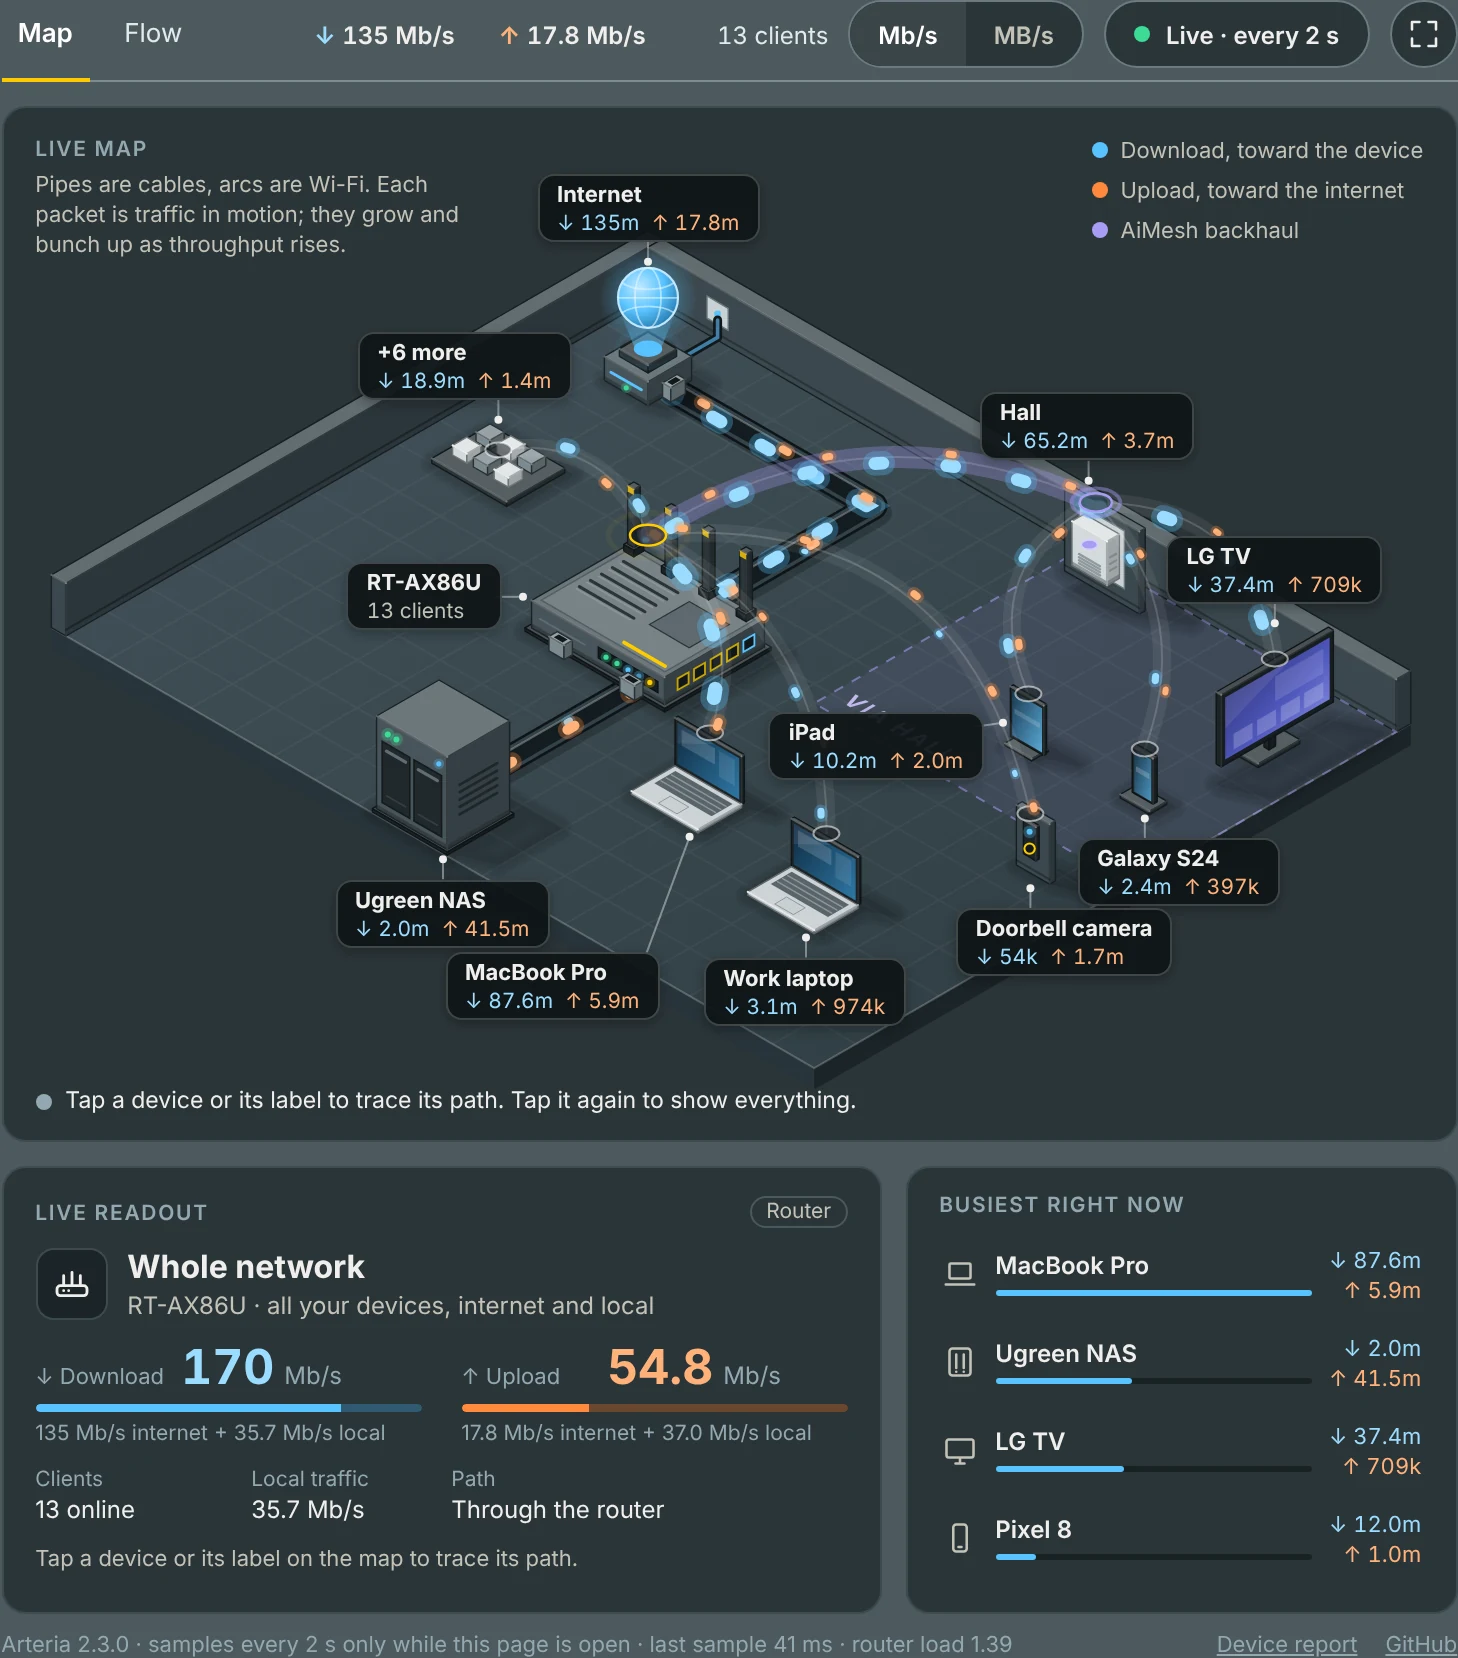
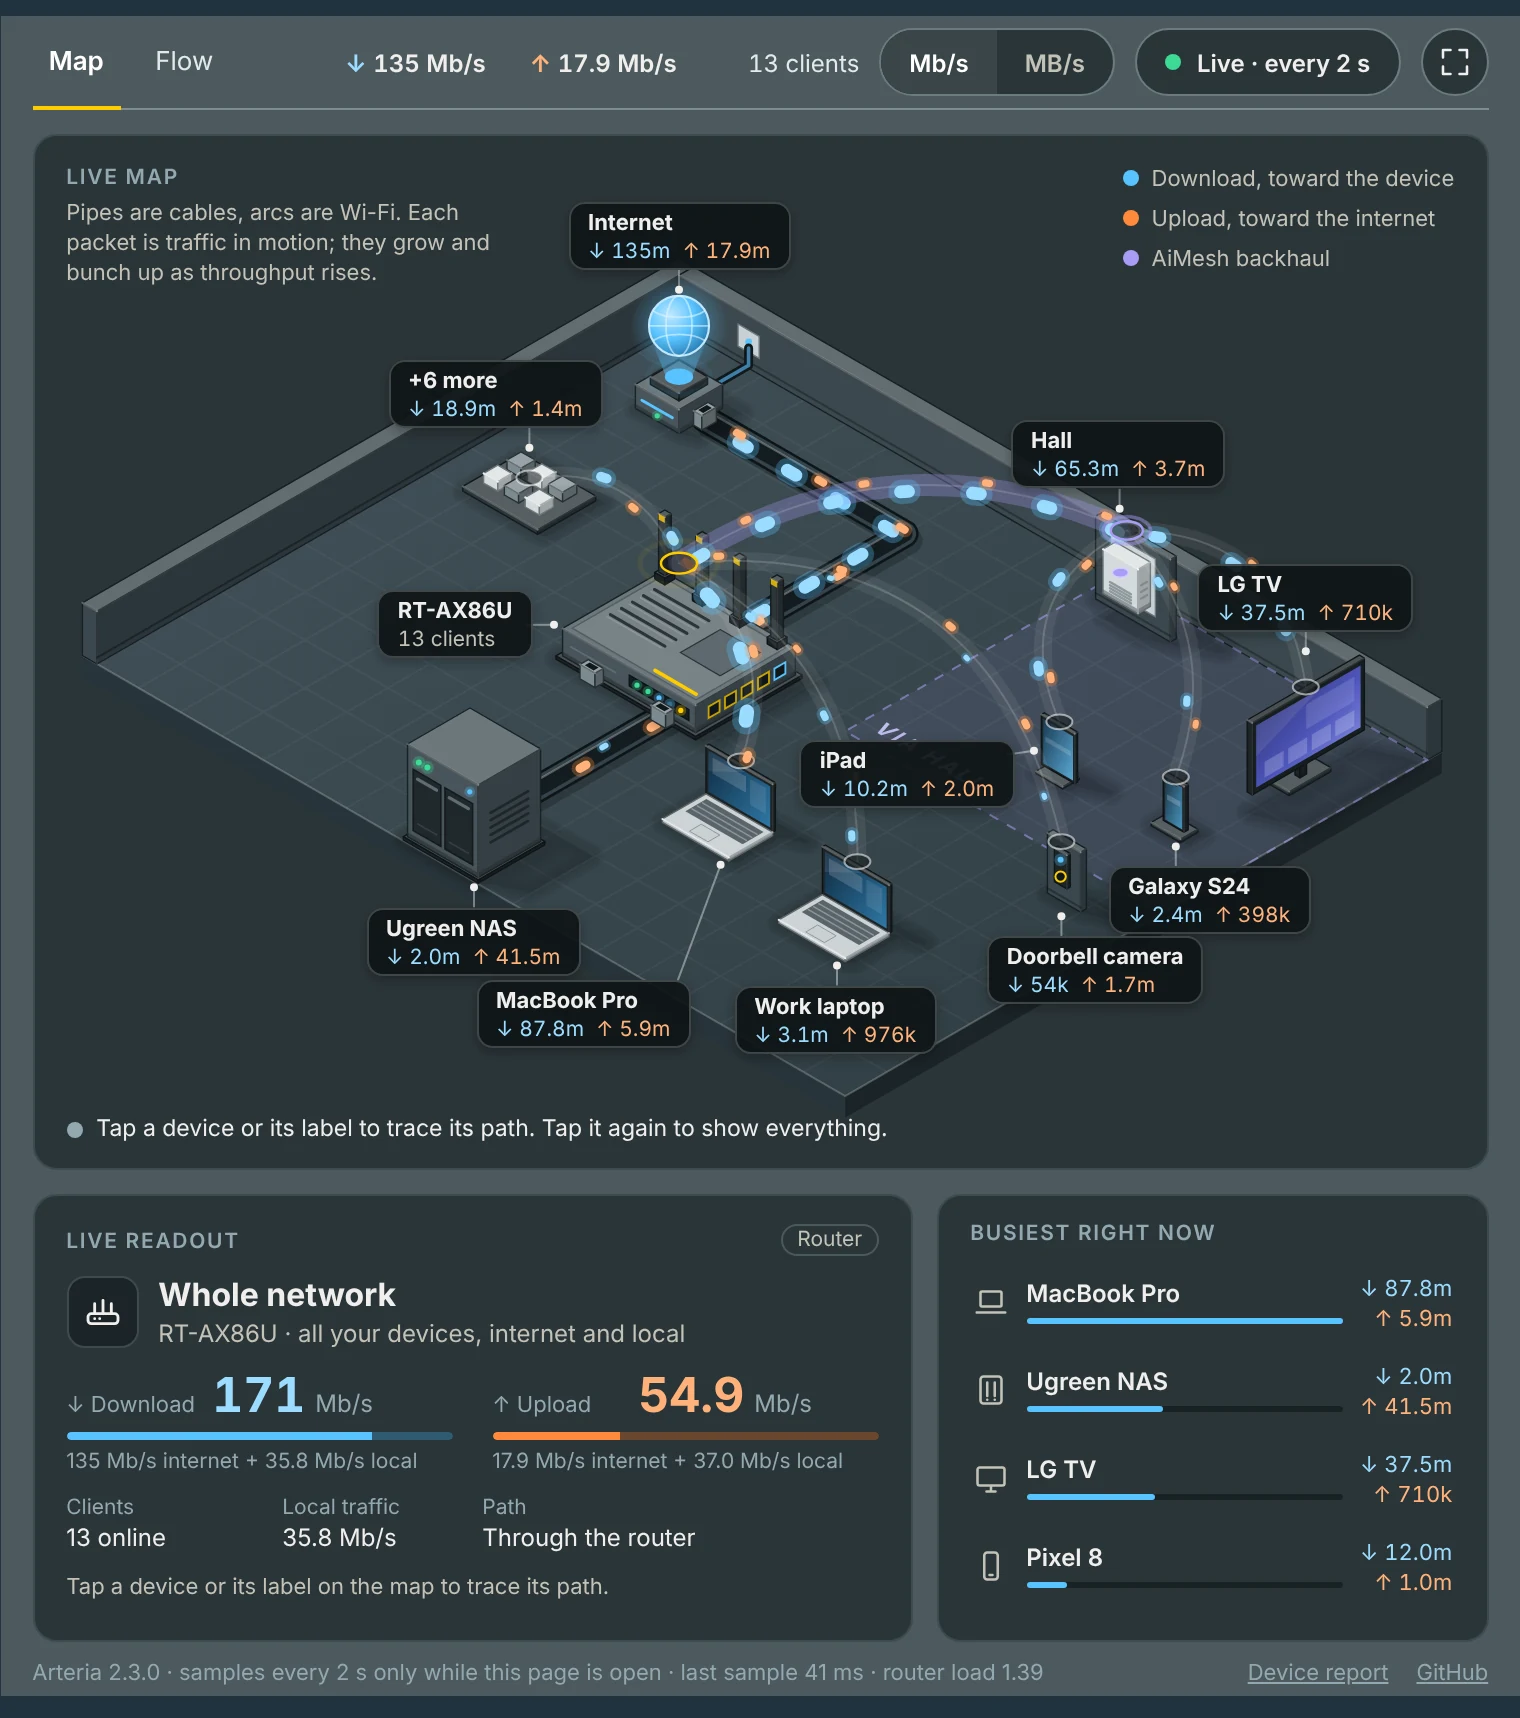
Docs: a margin round the addon in the README's pictures and the forum GIF
The demo, the forum GIF and the README's screenshots were cropped to the
addon's own box, so its edges sat on the picture's edge and the footer's
GitHub link was cut. demo-gif.py and screenshots.py now keep 16 px of the
page round the addon (as far as the page goes: 14 px above it), and all
the pictures are retaken with it. Same made-up data from preview.py.

Claude-Session: https://claude.ai/code/session_01VjX2uxd3MpU6CZq6psEPw5

Changed region(s): [[0.0, 0.0, 1.0, 1.0], [0.6173, 0.3384, 0.6481, 0.3999], [0.0926, 0.3999, 0.1235, 0.4306]]

diff --git a/.github/demo-gif.py b/.github/demo-gif.py
@@ -45,10 +45,12 @@ frames = []
 box = None
 full = []   # (from, to) screencast times when the expanded view fills the window: those frames show the whole window
 
+MARGIN = 16   # px of the page round the addon, so nothing at its edges (the tabs, the footer's links) is cut
+
 async def lowest(pg):
-    """The crop's height: down to the lowest the addon reached, with a little of the page below it, inside the window."""
+    """The crop's height: down to the lowest the addon reached, with a margin of the page below it, inside the window."""
     low, vh = await pg.evaluate("[window.demoLow, innerHeight]")
-    box[3] = min(low + 8, vh) - box[1]
+    box[3] = min(low + MARGIN, vh) - box[1]
 
 async def record():
     global box
@@ -61,9 +63,10 @@ async def record():
         await pg.evaluate(CURSOR)
         if FORUM:   # a quicker cursor
             await pg.evaluate("document.getElementById('demoCursor').style.transition = 'transform .45s cubic-bezier(.45,.05,.25,1)'")
-        # the crop: the whole addon, its footer included, as tall as it gets during the recording (the readout grows while a
-        # device is picked or renamed); the expanded view, which fills the window, doesn't count
-        box = await pg.evaluate("() => { const r = document.getElementById('ar').getBoundingClientRect(); return [r.left, r.top, r.width, r.height]; }")
+        # the crop: the whole addon, its footer included, with a margin of the page round it, as tall as it gets during the
+        # recording (the readout grows while a device is picked or renamed); the expanded view, which fills the window, doesn't count
+        box = await pg.evaluate("""(m) => { const r = document.getElementById('ar').getBoundingClientRect(), x = Math.max(0, r.left - m), y = Math.max(0, r.top - m);
+            return [x, y, Math.min(innerWidth, r.right + m) - x, r.bottom + m - y]; }""", MARGIN)
         await pg.evaluate("""() => { const ar = document.getElementById('ar'); window.demoLow = 0;
             const low = () => { if (!ar.classList.contains('big')) window.demoLow = Math.max(window.demoLow, ar.getBoundingClientRect().bottom); };
             new ResizeObserver(low).observe(ar); setInterval(low, 50); low(); }""")

diff --git a/.github/screenshots.py b/.github/screenshots.py
@@ -44,11 +44,18 @@ async def page(b, port, w=900, h=1000, scale=2, warm=WARM):
     return pg
 
 
+MARGIN = 16   # px of the page round the addon, so nothing at its edges (the tabs, the footer's links) is cut
+
+
 async def shot(pg, name, full=False):
     png = os.path.join(DOCS, name + '.png')
     await pg.mouse.move(2, 2); await pg.wait_for_timeout(400)
     if full: await pg.screenshot(path=png)
-    else: await (await pg.query_selector('#ar')).screenshot(path=png)
+    else:   # the addon with a margin of the page round it, as far as the page goes
+        clip = await pg.evaluate('''(m) => { const b = document.getElementById('ar').getBoundingClientRect(), d = document.documentElement;
+            const x = Math.max(0, b.left + scrollX - m), y = Math.max(0, b.top + scrollY - m);
+            return { x: x, y: y, width: Math.min(d.scrollWidth, b.right + scrollX + m) - x, height: Math.min(d.scrollHeight, b.bottom + scrollY + m) - y }; }''', MARGIN)
+        await pg.screenshot(path=png, clip=clip, full_page=True)
     webp(png, name + '.webp')
     await pg.close()
 
